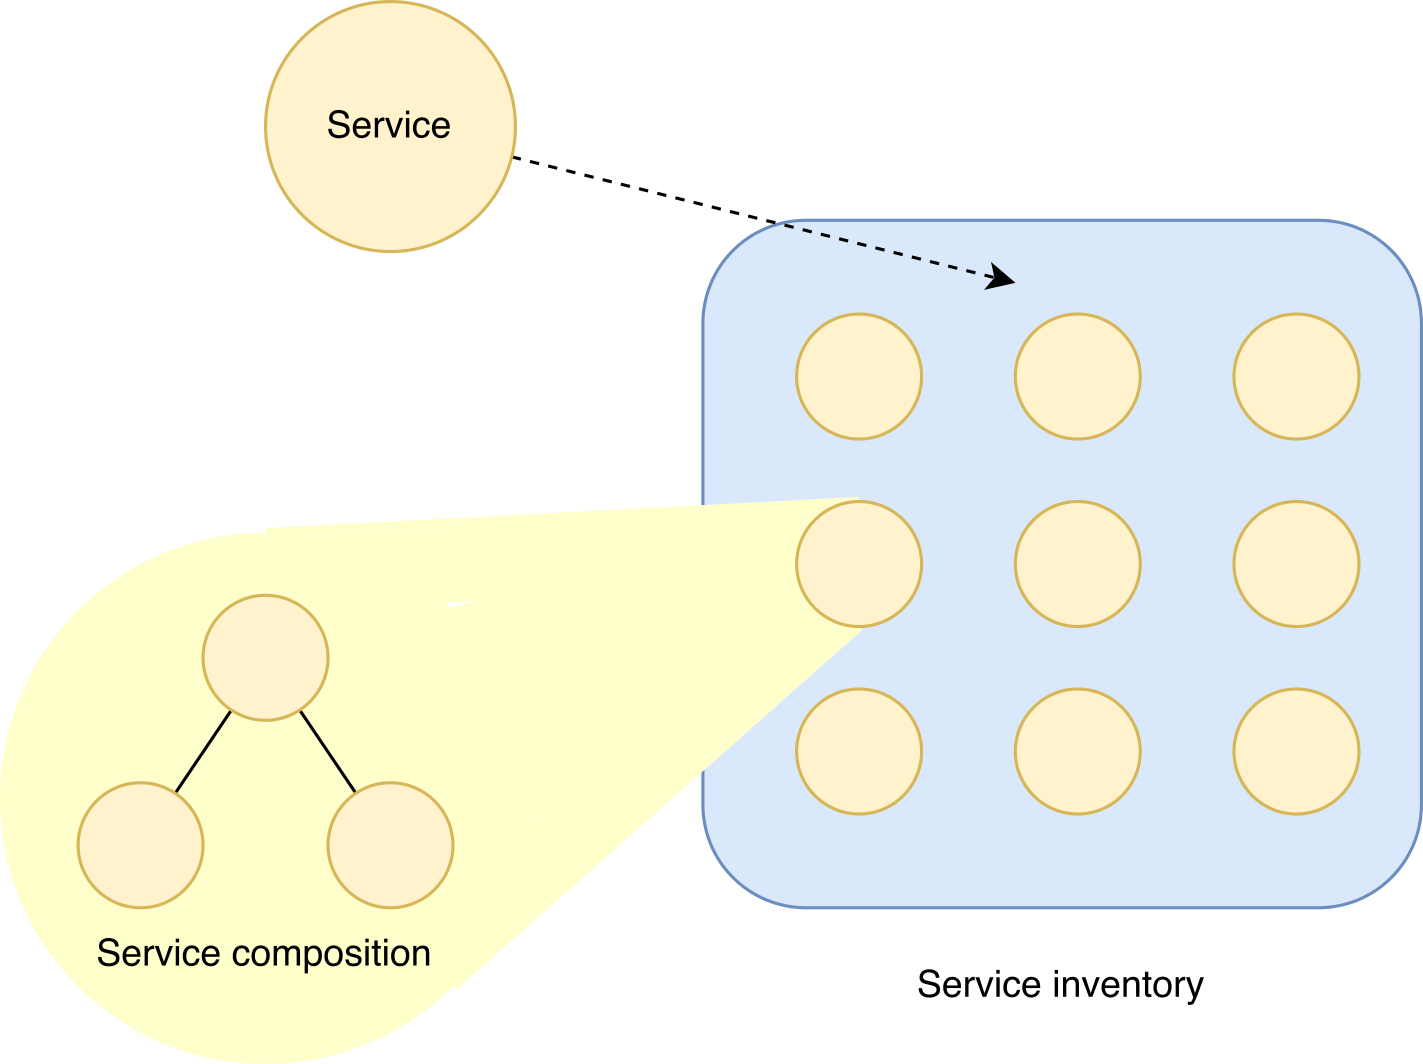
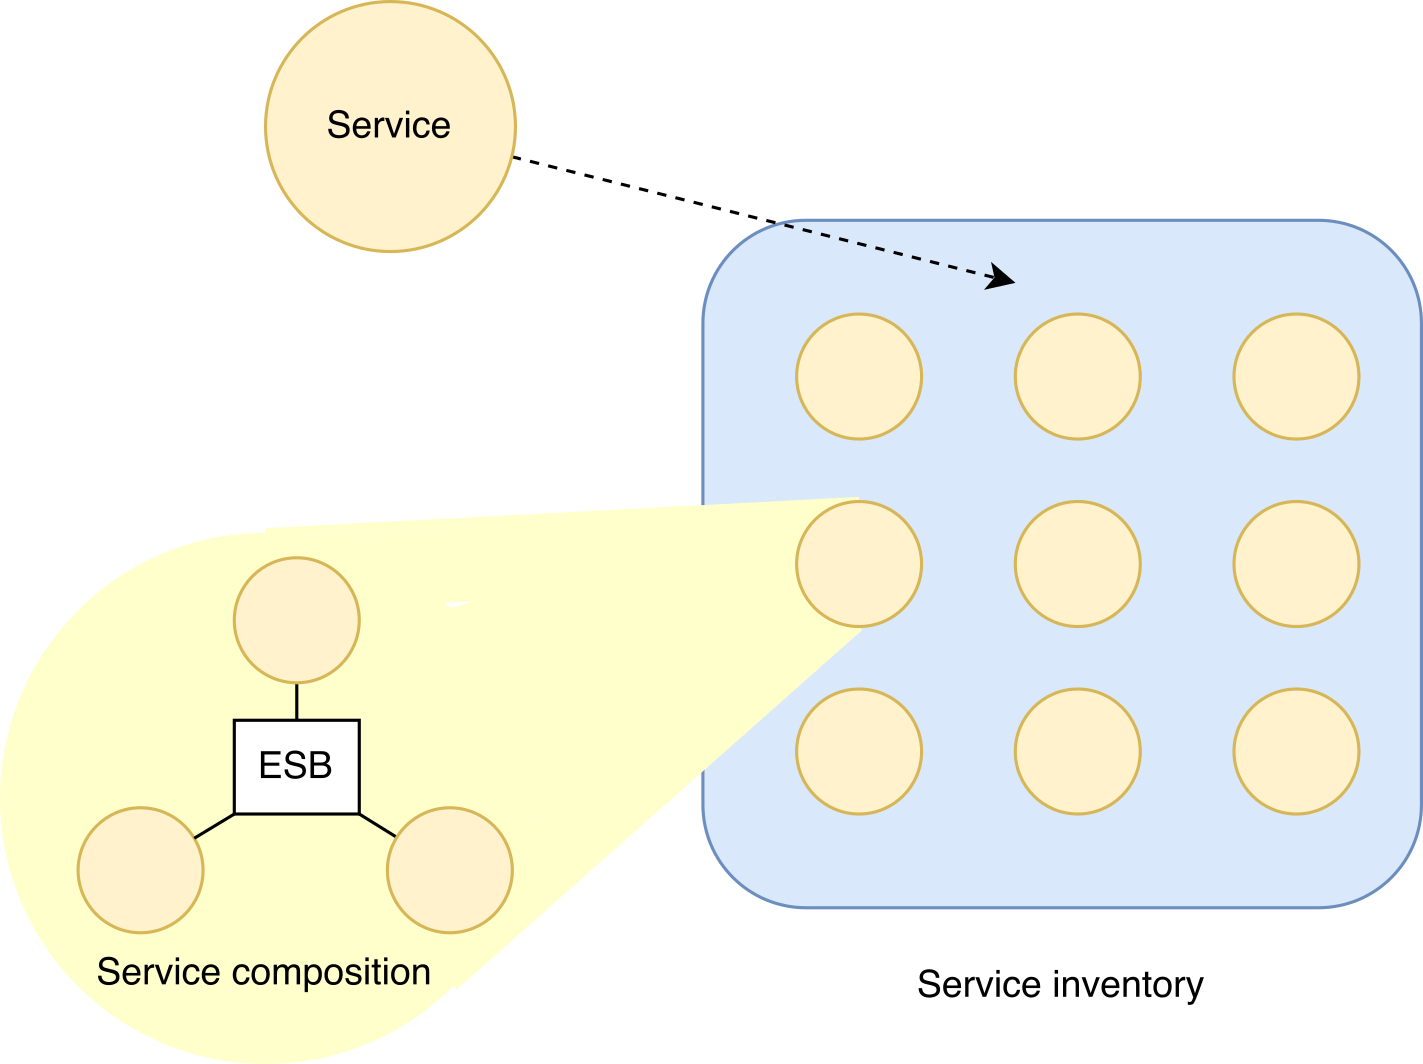
Modifications discussed on Monday consultation

diff --git a/thesis/src/text/monolith.tex b/thesis/src/text/monolith.tex
@@ -50,7 +50,33 @@ Distributed monoliths typically emerge in an environment where not enough focus 
 
 I am including this type of Monolith for the completeness, but since it is discouraged I will not refer to it unless explicitly specified.
 
+% -------------------------------------------------------
+\subsection{Service oriented (SOA)}
+In the world of business, creating solutions to automate the execution of business task makes a great sense. Over the course of IT's history, such solutions have been created with a common approach of identifying business task to be automated, defining business requirements and then creating the solution logic \cite{SERVICE_ORIENTED_ARCHITECTURE}. This has been accepted and proven approach to achieving positive business benefits, but it had a few negative sides:
+\begin{itemize}
+    \item  Repeatedly building "disposable applications" is not the perfect approach.
+    \item  Creation of new solution logic in given enterprise commonly results in a significant amount of redundant functionality \cite{SERVICE_ORIENTED_ARCHITECTURE}.
+    \item Applications built only with the automation of specific business task in mind, are generally not designed to integrate later with other applications well, resulting in a complex integration architecture.
+\end{itemize}
+All of those negative aspects listed above led to creation of Service-Oriented architecture with the idea of creating reusable services, requiring high-level of interoperability between service and numerous potential service consumers, with standardized contract, loosely coupled and composable, which requires to be standardized with cross-service data exchange.
 
+\begin{quote}
+    `SOA, or service-oriented architecture, defines a way to make software components reusable and interoperable via service interfaces. Services use common interface standards and an architectural pattern so they can be rapidly incorporated into new applications. This removes tasks from the application developer who previously redeveloped or duplicated existing functionality or had to know how to connect or provide interoperability with existing functions.' \cite{IBM_SOA}
+\end{quote}
+
+At the start, companies were launching big organization wide initiatives, to convert everything into Service oriented architecture, which promised a lot of benefits. It was laborious and time-consuming, and often the company's development team had to re-architecture all existing systems as well as design new applications according to new principles. A different way to approach problems of SOA was Enterpise service bus (ESB), which can be implemented and deployed in a short period acting as a central solution for integrations. This approach with ESB has been quickly adopted and basically everyone in business who have SOA architecture is using it. It allows preserving existing legacy Modulith systems, just by exposing from them service via API and creating integration through ESB.
+
+Every enterprise contains service inventory, where all services are located and from which the targeted application can be composed as shown on Diagram \ref{img:soa_architecture}. The direct composable property should have mitigated traditional perception of integration, but in reality it just moved into ESB. Once a signification part of the enterprise solution logic is represented by services in inventory, which gives freedom to mix these services into infinite composition configurations to match whatever automation task come our way \cite{SERVICE_ORIENTED_ARCHITECTURE}.
+
+A classification is used to indicate the reuse potential of the logic and how the service relates to the actual business logic. The common service models are: Task service, Entity service, Utility service and microservice (this is different microservice than we know today, in SOA it was used for small implementation specific service, which was not reusable). \cite{SERVICE_ORIENTED_ARCHITECTURE}
+
+The complexity of implementation to achieve actual reusability is huge and has noticeable performance drawbacks, not to mention high cost in maintainability. In practice this architecture has been mostly implemented into big existing companies, which had already some existing legacy systems and in combination with ESB giant high coupled Monoliths were created. Today everyone is moving away from this architecture if they did not already towards microservices (section~\ref{section:microservices}), which has proven to be better suited for the task.
+
+\begin{figure}
+    \centering
+    \includesvg[width=0.7\textwidth]{images/soa_architecture.svg}
+    \caption{Services are delivered into service inventory (right) from which service composition are drawn (bottom). \label{img:soa_architecture}}
+\end{figure}
 
 % -------------------------------------------------------
 
@@ -67,17 +93,13 @@ Deployment as a single process brings big benefit in terms of performance compar
 % 
 
 \subsection{Maintainability}
-\begin{quote}
-    Software maintainability is defined as the degree to which an application is understood, repaired, or enhanced. \cite{SOFTWARE_MAINTAINABILITY}
-\end{quote}
-Maintenance is tightly related to Complexity. Usually the more complex application, the more hard to maintain and with monolithic high coupling it is not very good at it. Although there are some positive sides, having debugging and logging much more easier than with any distributed system, where it is multiple times harder and requiring collection of tools just to collect some information.
-
+Maintenance is tightly related to Complexity. Usually the more complex application, the more hard to maintain and with monolithic high coupling it is very bad at it. A single modification can have power to affect the entire application and maintaining legacy Monoliths has become nightmare for many developers, since even smallest change requires vast knowledge of the whole system. Although there are some positive sides, having debugging and logging much easier than with any kind of distributed system, so finding the issue is usually the simple step compared to creating the actual fix.
 
 % Easy debugging | logging
 
 \subsection{Sustainability}
 % Not sure what should be here
-Every system today needs some kind of database either relational like SQL or noSQL and ensuring data consistency (to some extent). This is mainly achieved by transactions. Using it in Monolithic systems is very easy, and every language has support for it, while running distributed transactions requires special patterns like Saga \cite{SAGA_PATTERN}.
+The maintenance cost of Monolith is huge. Either the operational costs due to its inability to scale properly, so we have to have oversized infrastructure, but also having developers with vast knowledge of the system and well-defined testing process. Introducing any kind of architecture change is nearly impossible and integrations have proven to be complicated/problematic as well.
 
 \subsection{Testability}
 Since in classical monolith, there are no boundaries, it is nearly impossible to test just specific parts of the system in isolation, because the whole system needs to be present in order for it to function. So, writing end-to-end tests is usually the answer, but it has much harder to write and even run them, because they take much more time, compared to testing just isolated parts.

diff --git a/thesis/src/text/architecture_summary.tex b/thesis/src/text/architecture_summary.tex
@@ -5,24 +5,24 @@ Following table~\ref{table:architecture_compare} contains summary of previous se
 \begin{sidewaysfigure}
     \begin{tabular}{ |p{2.7cm}|p{3cm}|p{3cm}|p{4cm}|p{3cm}| }
         \hline
-        \textbf{Aspect}       & \textbf{Monolithic}                            & \textbf{Modulith}                                    & \textbf{Hybrid Modulith}                                                                    & \textbf{Microservices}                                \\
+        \textbf{Aspect}       & \textbf{Monolithic}                            & \textbf{Modulith}                                    & \textbf{Hybrid Modulith}                                   & \textbf{Microservices}                                \\
         \hline
-        Structure             & Single, highly coupled   application.          & Single, loosly coupled application                   & Single loosely coupled application with few independent microservices.                      & Many small, independent services.                     \\
+        Structure             & Single, highly coupled   application.          & Single, loosely coupled application                  & Multiple loosely coupled Moduliths.                        & Many small, independent services.                     \\
         \hline
-        Communication         & Direct function calls.                         & Direct function calls.                               & Direct function calls and network communication                                             & Network communication through APIs or messages.       \\
+        Communication         & Direct function calls.                         & Direct function API calls.                           & Network communication.                                     & Lof of network communication.                         \\
         \hline
-        Scalability           & Add instance of whole application.             & Add instance of whole application.                   & Add instance of microservice of move module to microservice.                                & Add instance of individual microservices.             \\
+        Scalability           & Add instance of whole application.             & Add instance of whole application.                   & Add instance of individual Modulith.                       & Add instance of individual microservice.              \\
         \hline
-        Architecture overhead & Minimal                                        & Minimal                                              & Moderate                                                                                    & Higher                                                \\
+        Architecture overhead & Minimal                                        & Minimal                                              & Moderate                                                   & Higher                                                \\
         \hline
-        Maintainability       & Modification can affect the entire application & Modification in modules has isolated effects.        & Modifications in modules and microservices have isolated effect.                            & Modifications in microservices have isolated effect.  \\
+        Maintainability       & Modification can affect the entire application & Modification in modules has isolated effects. *      & Modifications in module have isolated effect. *            & Modifications in microservice have isolated effect. * \\
         \hline
-        Deployment            & Single unit.                                   & Single unit or independent deployment of modules.    & Single unit or independent deployment of modules + independent deployment of microservices. & Independent deployment of microservices.              \\
+        Deployment            & Single unit.                                   & Single unit or independent deployment of modules.    & Independent deployment of Moduliths or individual modules. & Independent deployment of microservices.              \\
         \hline
-        Collaboration         & Everyone works on one codebase.                & Everyone works on one codebase.                      & Most people works on one codebase + teams collaborate on individual microservices.          & Teams collaborate on individual microservices.        \\
+        Collaboration         & Everyone works on one codebase.                & Everyone works on one codebase.                      & Teams collaborate on individual Moduliths.                 & Teams collaborate on individual microservices.        \\
         \hline
-        Complexity            & Higher due to highly coupled  components       & Moderate to lower complexity with decoupled modules. & Moderate to lower complexity with decoupled modules.                                        & Lower complexity with highly decoupled microservices. \\
+        Complexity            & Higher due to highly coupled  components       & Moderate to lower complexity with decoupled modules. & Moderate to lower complexity with decoupled modules.       & Lower complexity with highly decoupled microservices. \\
         \hline
     \end{tabular}
-    \caption{Overview of architectures.\label{table:architecture_compare}}
+    \caption{Overview of architectures. *Modifications to API always affects the whole application.\label{table:architecture_compare}}
 \end{sidewaysfigure}

diff --git a/thesis/src/text/modulith.tex b/thesis/src/text/modulith.tex
@@ -21,10 +21,10 @@ Once we have to scale this architecture, some modules are moved into separated s
 
 
 \subsection{Maintainability}
-This is where the Monolith has been proved to be very problematic and the Microservice shines. Enforcing modularity on architecture level turned out to be essential in long-term maintenance. In my experience all projects usually begin as beautiful things and over time got messy. In my own opinion this is primarily caused my laziness of us developers. If there is some shortcut we can use, we will and say to ourselves: `I will fix it later', which off course never happens. I am not saying this happens all the time, but there are times, when deadlines start breathing on our neck and forcing us to do things faster. So, when we remove some of those shortcuts as were in Monolith, which allowed to do anywhere anything and force modularity on architecture level, developers has no other choice then to do it properly, since there will be no other way. It does mean that some features will take few minutes or hours later, but this will be well invested time compared to searching for mysterious bugs in Monolith in much, much more time is spent.
+This is where the Monolith has been proved to be very problematic and the Microservice shines. Enforcing modularity on architecture level turned out to be essential in long-term maintenance. In my experience all projects usually begin as beautiful things and over time got messy. In my own opinion this is primarily caused by laziness of us developers. If there is some shortcut we can use, we will and say to ourselves: `I will fix it later', which off course never happens. I am not saying this happens all the time, but there are times, when deadlines start breathing on our neck and forcing us to do things faster. So, when we remove some of those shortcuts as were in Monolith, which allowed to do anywhere anything and force modularity on architecture level as in Modulith, developers has no other choice then to do it properly, since there will be no other way. It does mean that some features will take few minutes or hours more, but this will be well invested time compared to searching for mysterious bugs in Monolith where much, much more time is spent.
 
 \subsection{Sustainability}
-TODO
+The modularity gives big flexibility and allows for faster iterations to better adapt for changing business requirements as well as for architecture change.
 
 \subsection{Testability}
 Testing is very similar as for Microservice, since the whole application is split into modules, which can be tested independently. The big advantage even over Microservice is the single process nature, which allows testing using convention tools and frameworks, which were created for Monoliths.

diff --git a/thesis/src/text/text.tex b/thesis/src/text/text.tex
@@ -20,15 +20,14 @@
 \chapter{Architectures}
 In this chapter we will look into classical Monolithic architecture, currently what is considered the most famous called Microservices and what can be found somewhere between: Modulith and Service-Oriented architecture. Apart from defining the architectures, we will compare them among the following lines:
 \begin{itemize}
-    \item Performance defining how much workload application can handle, how much latency is present during processing and how well application can scale.
-    \item Maintainability defining how well application is understood, repaired and enhanced.
-    \item Sustainability
-    \item Testability defining the extent of how easy of challenging it is to test an application.
+    \item Performance is defined as how much workload application can handle, how much latency is present during processing and how well application can scale.
+    \item Maintainability is defined as degree to which application is understood, repaired and enhanced from technological perspective.  \cite{SOFTWARE_MAINTAINABILITY}
+    \item Sustainability is defined as how well application performs in long term from business perspective (mainly cost).
+    \item Testability is defined as the extent of how easy or challenging it is to test an application.
 \end{itemize}
 
 \input{text/monolith}
 \input{text/modulith}
-\input{text/service_oriented_architecture}
 \input{text/microservice}
 \input{text/architecture_summary}
 
@@ -43,5 +42,7 @@ In this chapter we will have a closer look on one of the project I've worked, wh
 \input{text/case_study}
 
 %---------------------------------------------------------------
-\chapter{2nd?}
+\chapter{Choosing the right architecture}
+In software engineering there is no silver bullet. Every project has its spec own specifics and requirements. Some solution can work greatly for one project and be catastrophic for others. In following text, we will look closely on architecture decision-making for projects and try to come up with straight forward methodology.
+
 \input{text/methodology}

diff --git a/thesis/src/text/microservice.tex b/thesis/src/text/microservice.tex
@@ -42,9 +42,10 @@ Microservices being distributed system, it necessarily adds higher latency compa
 
 \subsection{Maintainability}
 % Distributed tracing
-Distributed system are much harder to maintain due to added complexity. Even thing like investigating some issue requires collecting logs from multiple servers, aggregating them together and having tool to effectively search through it. Or even better way is to use Distributed tracing, which can generate vast amount of data even on simple systems. Modifications in microservices have isolated effect.
+Distributed system are much harder to maintain due to added complexity. Even thing like investigating some issue requires collecting logs from multiple servers, aggregating them together and having tool to effectively search through it. Or even better way is to use Distributed tracing, which can generate vast amount of data even on simple systems. Modifications in microservices have isolated effect withing microservice and can be deployed in matter of just few hours (or even minutes).
 
 \subsection{Sustainability}
+The isolated microservices give big flexibility and allows for faster iterations (even faster than Modulith) to better adapt for changing business requirements as well as for architecture change.
 
 \subsection{Testability}
 In theory testing should be breeze, but in really not so much, because services are usually part of a larger business-logic dependent on other services to complete the logic. Practices for service-testing (e.g. mocks, API-contract testing) are known, but they are very complex and costly to implement. For comparison in  monoliths we have many proved testing strategies including end-to-end with many great frameworks/libraries available. \cite{MC_TESTABILITY}
